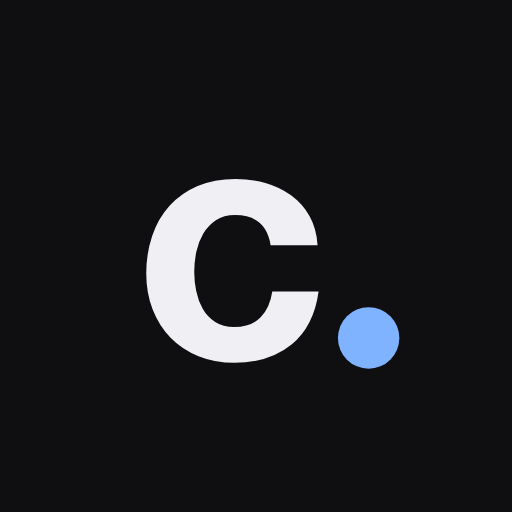
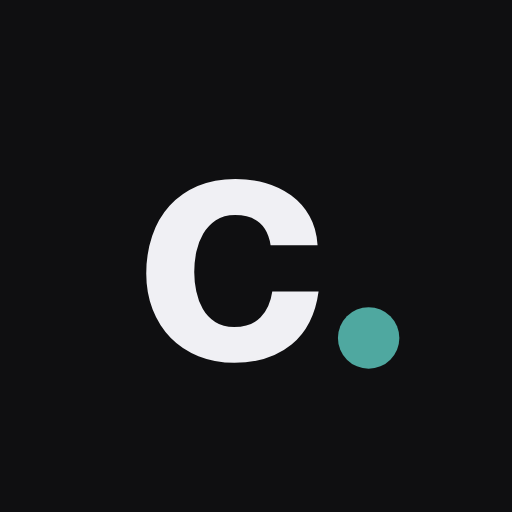
Switch the accent to teal to match the lifeOS card
Blue was shared with motivation., so tasks. now uses the teal of its
lifeOS card, in the page and the icon dot.

Changed region(s): [[0.6562, 0.5938, 0.7812, 0.7188]]

diff --git a/index.html b/index.html
@@ -20,7 +20,7 @@
     :root {
       --bg:#f4f1ea; --card:#fffdf8; --input:#f0ece3; --border:#ddd8cc; --border-light:#e8e3d8;
       --text:#2d2a24; --muted:#7a756a; --dim:#a8a295;
-      --accent:#3d6ba8; --accent-hover:#2d5a90; --accent-soft:#3d6ba814; --accent-text:#3d6ba8;
+      --accent:#2a7d77; --accent-hover:#1f6560; --accent-soft:#2a7d7714; --accent-text:#1f5f5c;
       --work:#a0672e; --work-soft:#a0672e14;
       --danger:#b54e4e; --danger-soft:#b54e4e12; --success:#4a7c4a; --success-soft:#4a7c4a14;
       --shadow:0 1px 3px rgba(0,0,0,.06);
@@ -29,7 +29,7 @@
       :root {
         --bg:#1a1d22; --card:#23272d; --input:#2c3139; --border:#3a4049; --border-light:#434a54;
         --text:#e6e8eb; --muted:#9aa2ad; --dim:#6b737e;
-        --accent:#5a8ac2; --accent-hover:#6b9bd1; --accent-soft:#5a8ac21f; --accent-text:#8fb4e0;
+        --accent:#2f8a84; --accent-hover:#3a9a93; --accent-soft:#4fa8a024; --accent-text:#8fd0c9;
         --work:#d99a5b; --work-soft:#d99a5b1f;
         --danger:#c96b6b; --danger-soft:#c96b6b1f; --success:#6bba6b; --success-soft:#6bba6b1f;
         --shadow:0 1px 3px rgba(0,0,0,.3);
